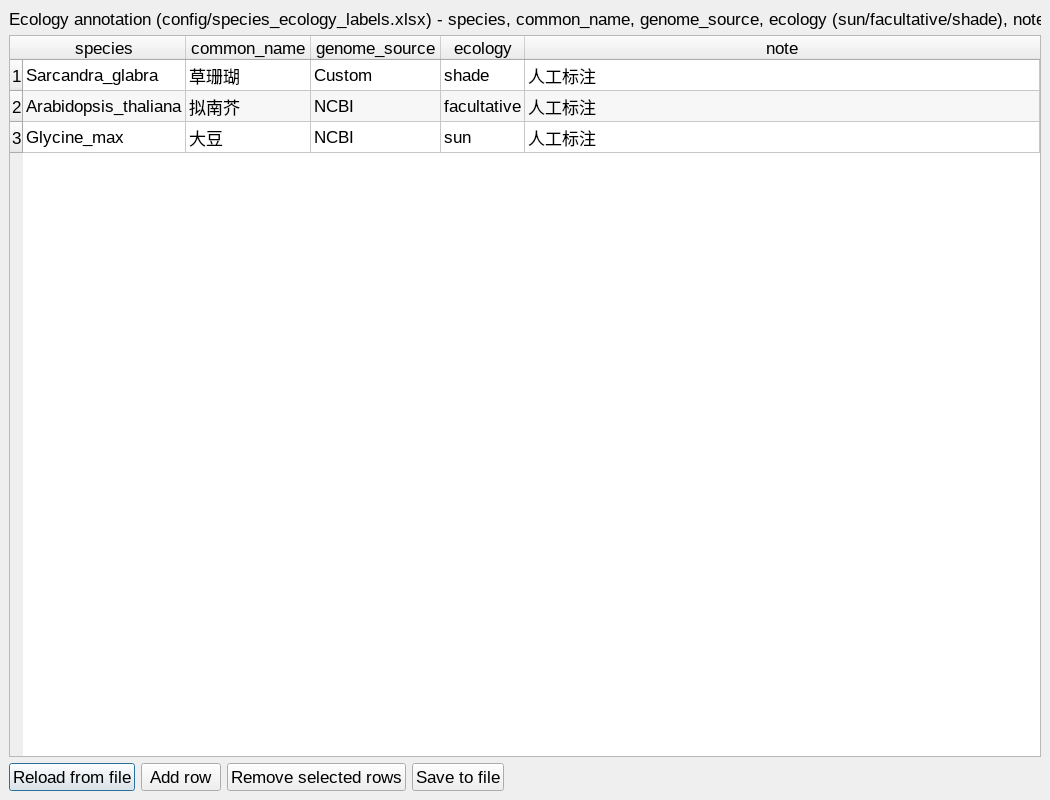
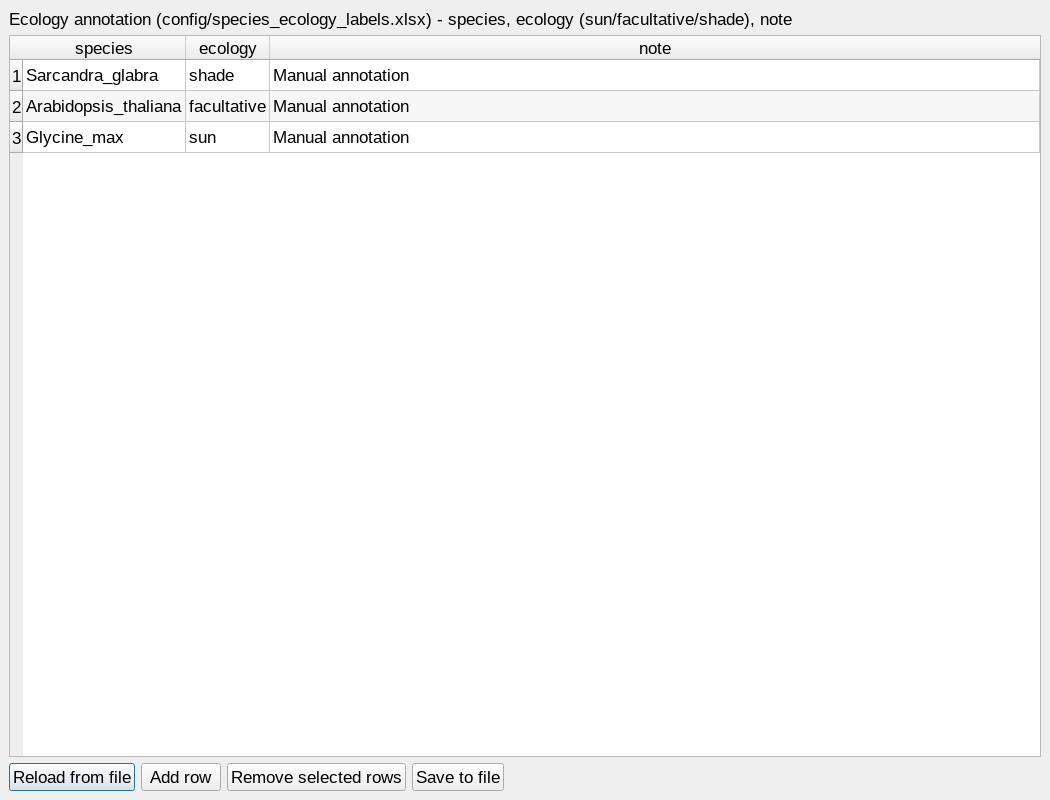
docs: v1.3.30 simplified ecology labels schema (species/ecology/note, English)

Changed region(s): [[0.1829, 0.0312, 0.3962, 0.1875], [0.4876, 0.0, 1.0, 0.0625], [0.4267, 0.0312, 0.579, 0.1875]]

diff --git a/docs/conf.py b/docs/conf.py
@@ -9,8 +9,8 @@ author = "sunshadeCisseeker developers"
 copyright = "2026, sunshadeCisseeker developers"
 
 # The short X.Y version and the full release version.
-version = "v1.3.29"
-release = "v1.3.29"
+version = "v1.3.30"
+release = "v1.3.30"
 
 extensions = [
     "sphinx.ext.autosectionlabel",

diff --git a/docs/content/Configuration.rst b/docs/content/Configuration.rst
@@ -55,25 +55,19 @@ One row per species; edit it in Excel/LibreOffice or through the GUI's
    * - ``species``
      - yes
      - species key matching the pipeline name exactly (spaces → underscores, e.g. ``Arabidopsis_thaliana``); copy from the ``species`` column of any ``result/<type>/05_ciselement_input/all_species_<type>_id_map.xlsx``
-   * - ``common_name``
-     - no
-     - common name (display only)
-   * - ``genome_source``
-     - no
-     - ``NCBI`` / ``Custom`` / ``Both`` (record only)
    * - ``ecology``
      - yes
      - ``sun`` (heliophyte) / ``facultative`` / ``shade`` (sciophyte)
    * - ``note``
      - no
-     - free-form note
+     - free-form note (e.g. ``Manual annotation``)
 
 Only species listed here enter the ecology comparison (steps 07–09);
 unlabelled species still appear in the general analysis (steps 01–06).
-The shipped starter rows are 草珊瑚 (*Sarcandra glabra*, ``shade``),
-拟南芥 (*Arabidopsis thaliana*, ``facultative``) and 大豆 (*Glycine max*,
-``sun``), all marked ``人工标注`` (manually annotated) in the ``note`` column
-— replace or extend them with your own annotations.
+The shipped starter rows are *Sarcandra glabra* (``shade``), *Arabidopsis
+thaliana* (``facultative``) and *Glycine max* (``sun``), all marked
+``Manual annotation`` in the ``note`` column — replace or extend them with
+your own annotations.
 
 ``config/cis_element_motif_library.xlsx`` (motif library)
 ----------------------------------------------------------

diff --git a/docs/content/Changelog.rst b/docs/content/Changelog.rst
@@ -1,6 +1,19 @@
 Changelog
 =========
 
+1.3.30 — ecology labels: species / ecology / note only (English)
+------------------------------------------------------------------
+
+* ``config/species_ecology_labels.xlsx`` is simplified to three columns —
+  ``species``, ``ecology`` and ``note`` (``common_name`` and ``genome_source``
+  are no longer needed) — and all shipped text is English: the starter rows
+  are *Sarcandra glabra* (``shade``), *Arabidopsis thaliana*
+  (``facultative``) and *Glycine max* (``sun``), each noted ``Manual
+  annotation``. The label reader only ever used the two required columns, so
+  existing files with the old extra columns keep working unchanged. Note: an
+  upgrade preserves an already-existing labels file on the server — edit it
+  through **Tools → Ecology labels…** or in Excel to match.
+
 1.3.29 — starter ecology labels: 草珊瑚 / 拟南芥 / 大豆
 ------------------------------------------------------------
 

diff --git a/docs/content/About sunshadeCisseeker.rst b/docs/content/About sunshadeCisseeker.rst
@@ -4,7 +4,7 @@ About sunshadeCisseeker
 sunshadeCisseeker identifies, annotates and compares promoter
 cis-regulatory elements across sun / facultative / shade plants.
 
-The current release is **1.3.29**; see :doc:`Changelog` for what changed in
+The current release is **1.3.30**; see :doc:`Changelog` for what changed in
 each version.
 
 Highlights
